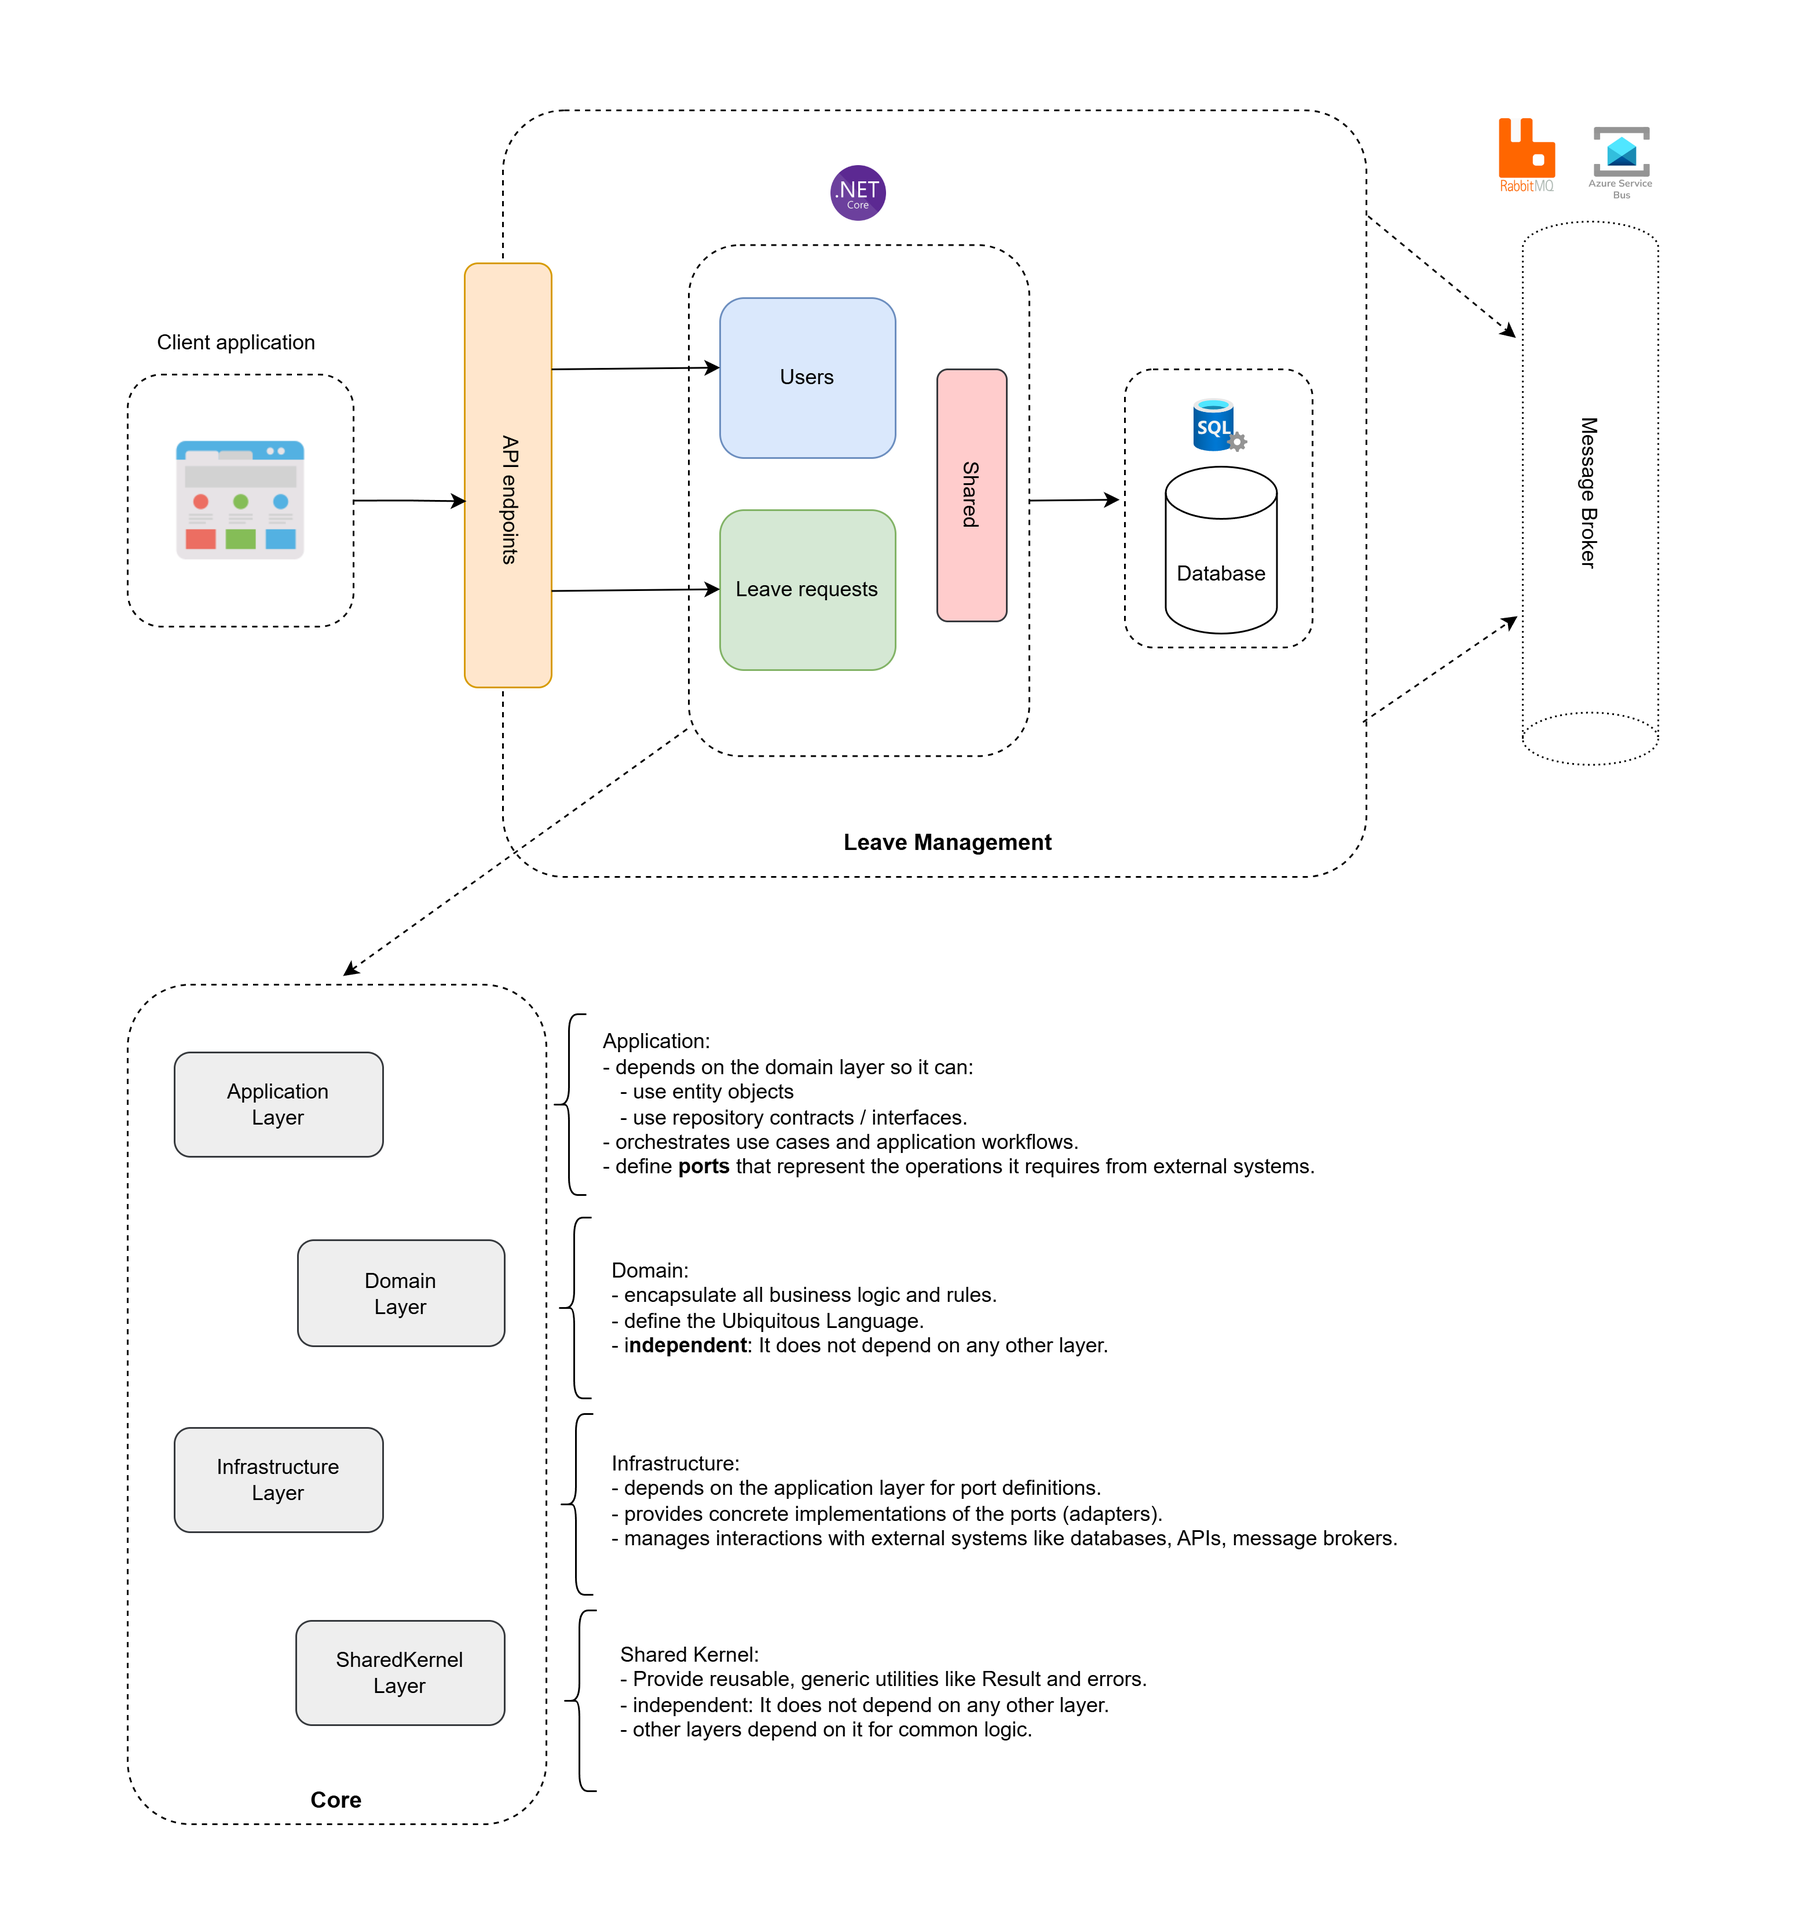
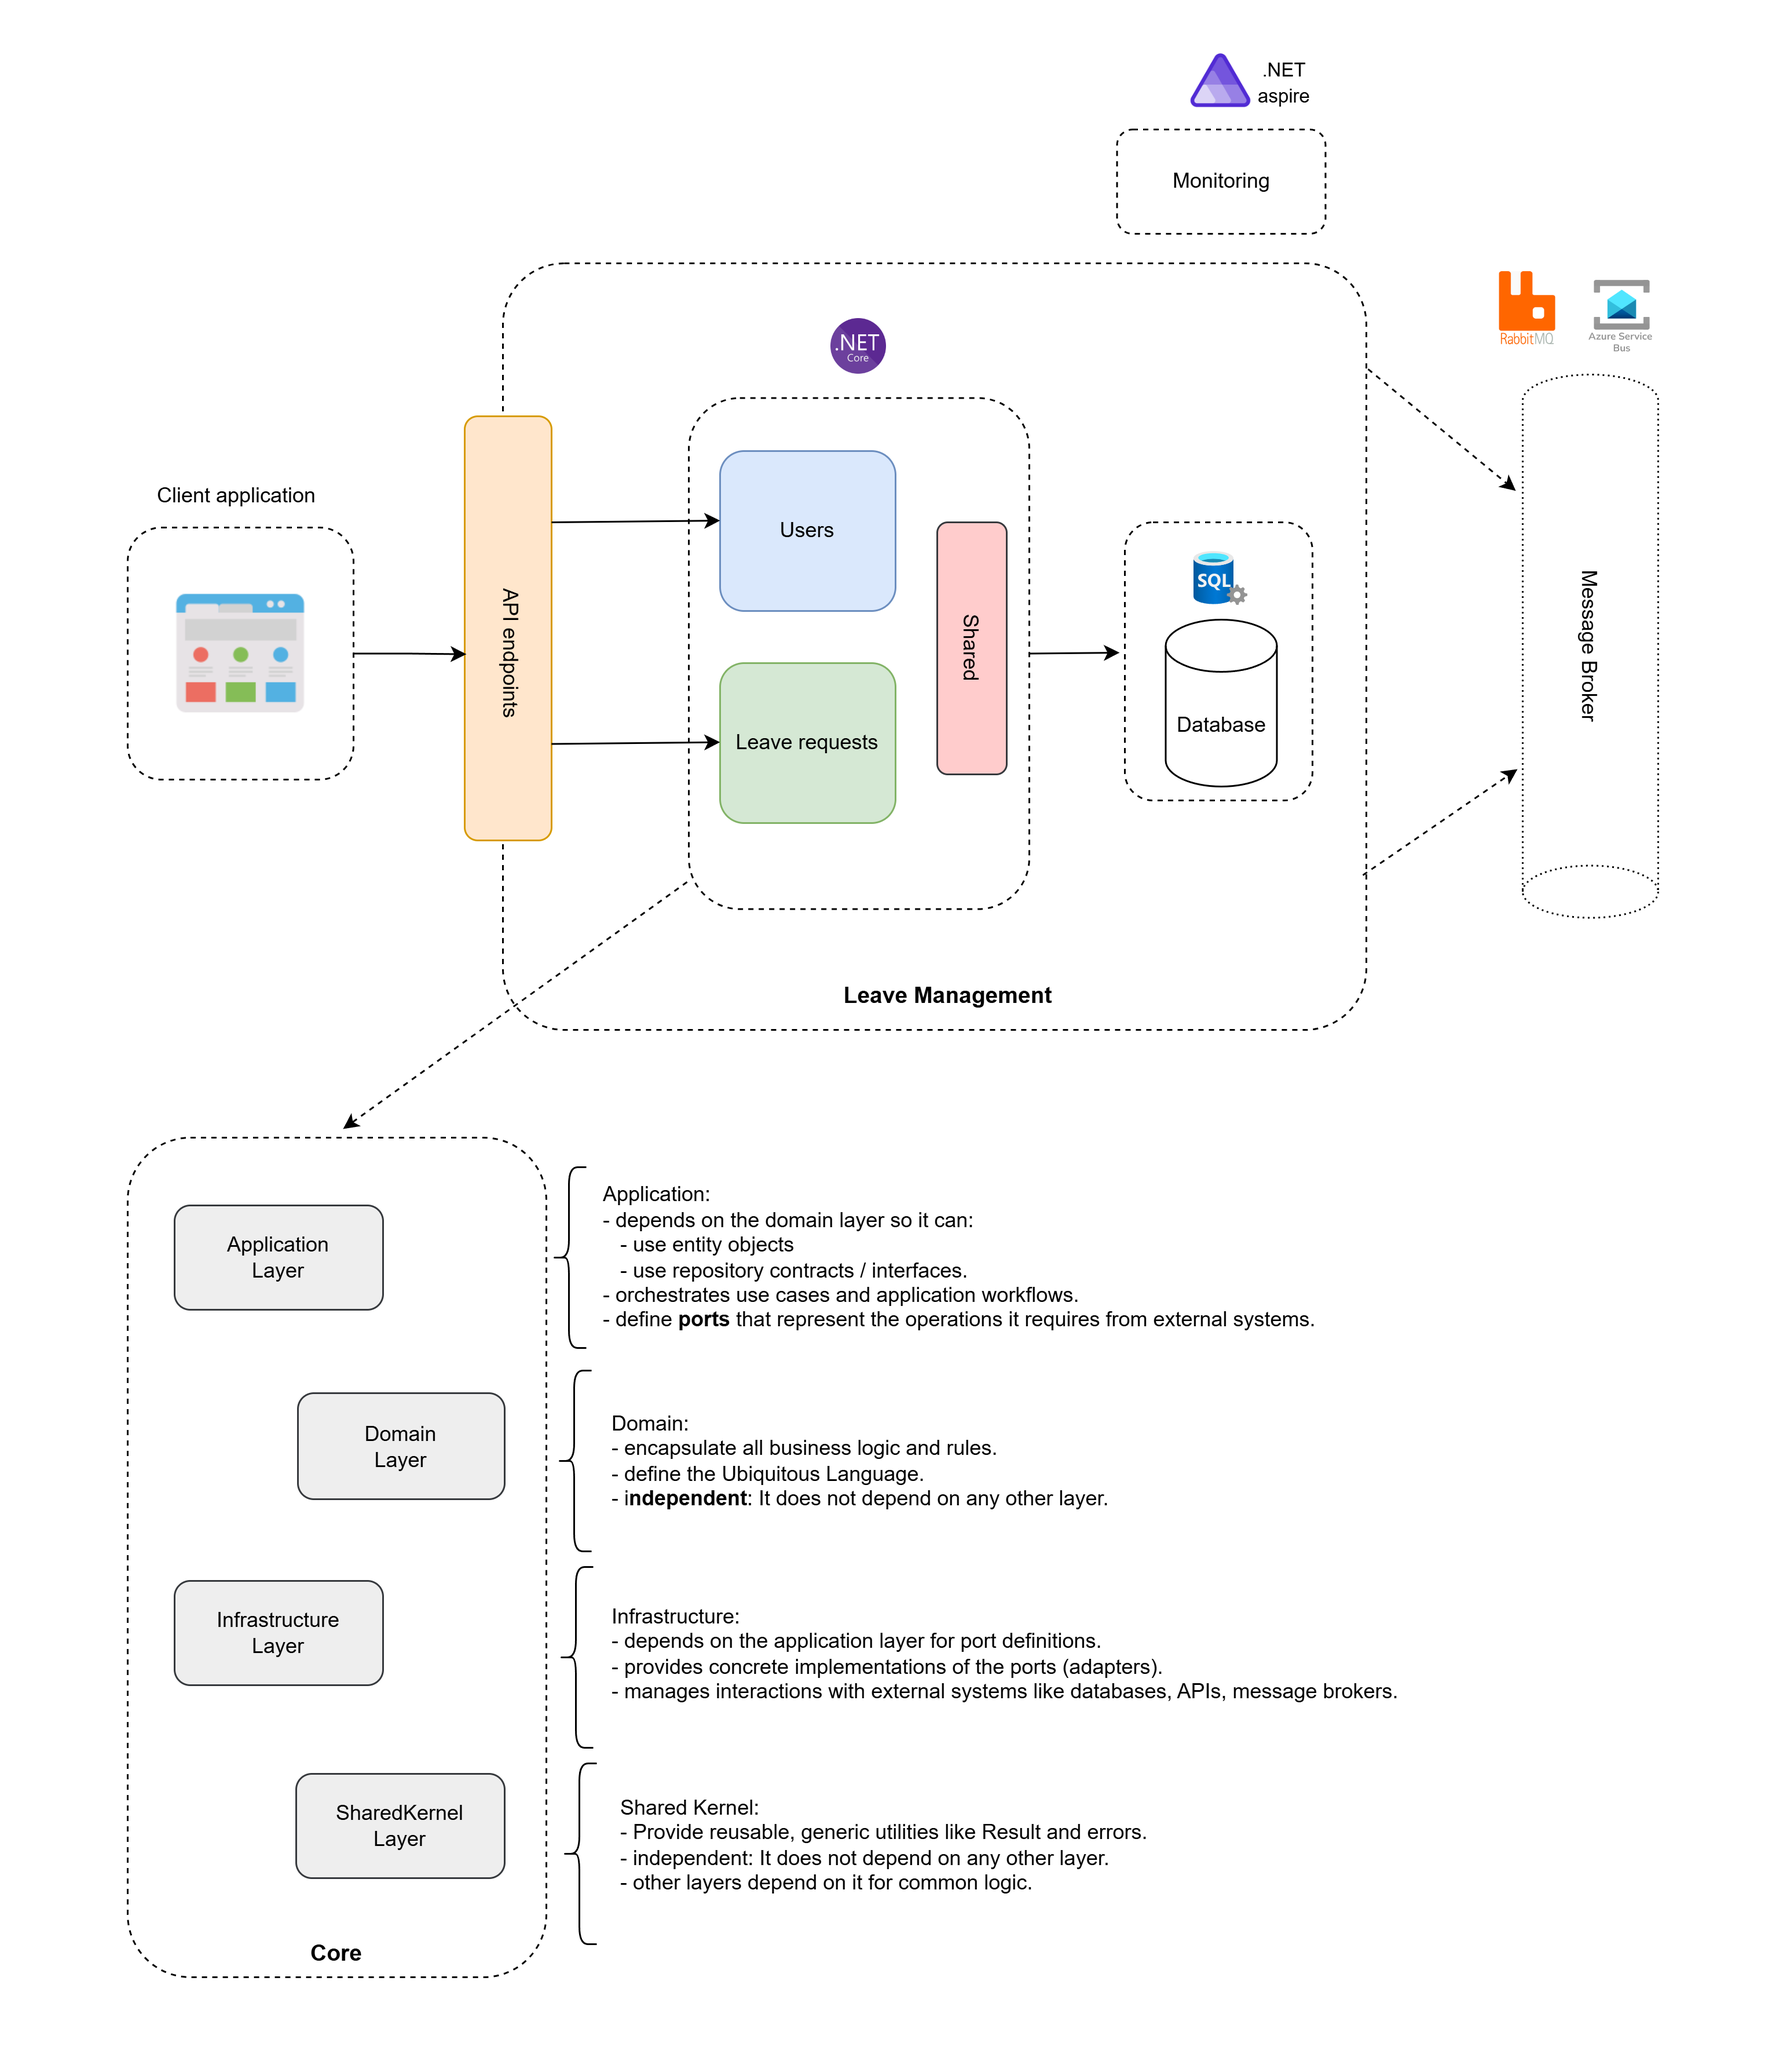
enable local monitoring through .NET aspire

diff --git a/Core/src/Monitoring.ServiceDefaults/Extensions.cs b/Core/src/Monitoring.ServiceDefaults/Extensions.cs
@@ -1,0 +1,119 @@
+using Microsoft.AspNetCore.Builder;
+using Microsoft.AspNetCore.Diagnostics.HealthChecks;
+using Microsoft.Extensions.DependencyInjection;
+using Microsoft.Extensions.Diagnostics.HealthChecks;
+using Microsoft.Extensions.Logging;
+using Microsoft.Extensions.ServiceDiscovery;
+using OpenTelemetry;
+using OpenTelemetry.Metrics;
+using OpenTelemetry.Trace;
+
+namespace Microsoft.Extensions.Hosting;
+
+// Adds common .NET Aspire services: service discovery, resilience, health checks, and OpenTelemetry.
+// This project should be referenced by each service project in your solution.
+// To learn more about using this project, see https://aka.ms/dotnet/aspire/service-defaults
+public static class Extensions
+{
+    public static TBuilder AddServiceDefaults<TBuilder>(this TBuilder builder) where TBuilder : IHostApplicationBuilder
+    {
+        builder.ConfigureOpenTelemetry();
+
+        builder.AddDefaultHealthChecks();
+
+        builder.Services.AddServiceDiscovery();
+
+        builder.Services.ConfigureHttpClientDefaults(http =>
+        {
+            // Turn on resilience by default
+            http.AddStandardResilienceHandler();
+
+            // Turn on service discovery by default
+            http.AddServiceDiscovery();
+        });
+
+        // Uncomment the following to restrict the allowed schemes for service discovery.
+        // builder.Services.Configure<ServiceDiscoveryOptions>(options =>
+        // {
+        //     options.AllowedSchemes = ["https"];
+        // });
+
+        return builder;
+    }
+
+    public static TBuilder ConfigureOpenTelemetry<TBuilder>(this TBuilder builder) where TBuilder : IHostApplicationBuilder
+    {
+        builder.Logging.AddOpenTelemetry(logging =>
+        {
+            logging.IncludeFormattedMessage = true;
+            logging.IncludeScopes = true;
+        });
+
+        builder.Services.AddOpenTelemetry()
+            .WithMetrics(metrics =>
+            {
+                metrics.AddAspNetCoreInstrumentation()
+                    .AddHttpClientInstrumentation()
+                    .AddRuntimeInstrumentation();
+            })
+            .WithTracing(tracing =>
+            {
+                tracing.AddSource(builder.Environment.ApplicationName)
+                    .AddAspNetCoreInstrumentation()
+                    // Uncomment the following line to enable gRPC instrumentation (requires the OpenTelemetry.Instrumentation.GrpcNetClient package)
+                    //.AddGrpcClientInstrumentation()
+                    .AddHttpClientInstrumentation();
+            });
+
+        builder.AddOpenTelemetryExporters();
+
+        return builder;
+    }
+
+    private static TBuilder AddOpenTelemetryExporters<TBuilder>(this TBuilder builder) where TBuilder : IHostApplicationBuilder
+    {
+        var useOtlpExporter = !string.IsNullOrWhiteSpace(builder.Configuration["OTEL_EXPORTER_OTLP_ENDPOINT"]);
+
+        if (useOtlpExporter)
+        {
+            builder.Services.AddOpenTelemetry().UseOtlpExporter();
+        }
+
+        // Uncomment the following lines to enable the Azure Monitor exporter (requires the Azure.Monitor.OpenTelemetry.AspNetCore package)
+        //if (!string.IsNullOrEmpty(builder.Configuration["APPLICATIONINSIGHTS_CONNECTION_STRING"]))
+        //{
+        //    builder.Services.AddOpenTelemetry()
+        //       .UseAzureMonitor();
+        //}
+
+        return builder;
+    }
+
+    public static TBuilder AddDefaultHealthChecks<TBuilder>(this TBuilder builder) where TBuilder : IHostApplicationBuilder
+    {
+        builder.Services.AddHealthChecks()
+            // Add a default liveness check to ensure app is responsive
+            .AddCheck("self", () => HealthCheckResult.Healthy(), ["live"]);
+
+        return builder;
+    }
+
+    public static WebApplication MapDefaultEndpoints(this WebApplication app)
+    {
+        // Adding health checks endpoints to applications in non-development environments has security implications.
+        // See https://aka.ms/dotnet/aspire/healthchecks for details before enabling these endpoints in non-development environments.
+        if (app.Environment.IsDevelopment())
+        {
+            // All health checks must pass for app to be considered ready to accept traffic after starting
+            app.MapHealthChecks("/health");
+
+            // Only health checks tagged with the "live" tag must pass for app to be considered alive
+            app.MapHealthChecks("/alive", new HealthCheckOptions
+            {
+                Predicate = r => r.Tags.Contains("live")
+            });
+        }
+
+        return app;
+    }
+}

diff --git a/Core/src/Api/Program.cs b/Core/src/Api/Program.cs
@@ -5,6 +5,8 @@ using Infrastructure;
 
 var builder = WebApplication.CreateBuilder(args);
 
+builder.AddServiceDefaults();
+
 var configuration = builder.Configuration;
 
 builder.Services.AddSwaggerGenWithAuth();
@@ -15,6 +17,8 @@ builder.Services
     .AddInfrastructure(configuration);
 
 var app = builder.Build();
+
+app.MapDefaultEndpoints();
 
 // Configure the HTTP request pipeline.
 if (app.Environment.IsDevelopment())

diff --git a/Core/src/Monitoring.AppHost/Program.cs b/Core/src/Monitoring.AppHost/Program.cs
@@ -1,0 +1,5 @@
+var builder = DistributedApplication.CreateBuilder(args);
+
+builder.AddProject<Projects.Api>("api");
+
+builder.Build().Run();

diff --git a/README.md b/README.md
@@ -33,6 +33,8 @@ This architecture diagram visually represents the system's components, their rel
   - Validate leave request.
   - Retrieve and filter user leave requests.
 
+> Optional: you also run the [Aspire](https://learn.microsoft.com/en-us/dotnet/aspire/get-started/aspire-overview) `Monitoring.AppHost` project for local monitoring and real time logs.
+
 ## Future Enhancements
 
 1. **Leave Balance Verification**
